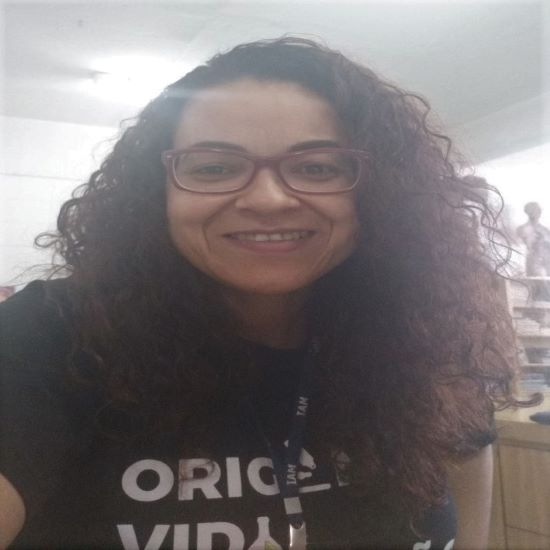
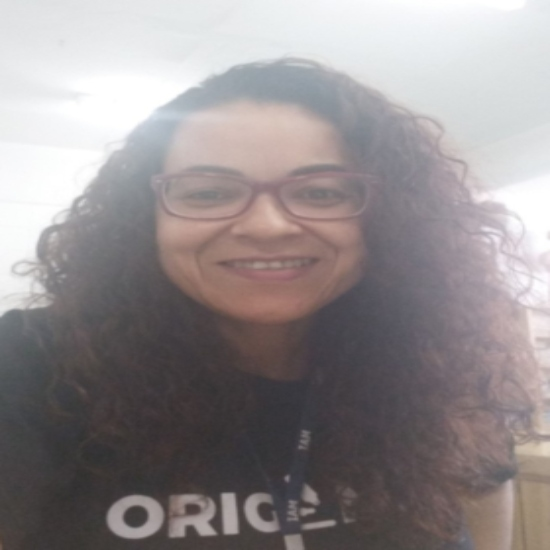
Substituíção imagem perfil e eliminada uma seção do portfólio

diff --git a/index.html b/index.html
@@ -382,24 +382,24 @@
                         </div>
                       </div>
                     </div>
-
+                    
                     <div class="col-sm-6 col-md-3">
                       <div class="service-block"> 
                         <div class="service-info">
                           <div class="service-image">
-                            <img src="images/service/creativity_icon.png" alt="Creativity" class="mCS_img_loaded">
+                          <img src="images/service/creativity_icon.png" alt="Creativity" class="mCS_img_loaded">
                           </div>
                           <h4>Sistema de gerenciamento</h4>
                           <p>Trabalhar com sistemas de gerenciamento e compartilhamento de informações.</p>
                         </div>
                       </div>
                     </div>
-
+                                      
                     <div class="col-sm-6 col-md-3">
                       <div class="service-block"> 
                         <div class="service-info">
                           <div class="service-image">
-                            <img src="images/service/advetising_icon.png" alt="Advetising" class="mCS_img_loaded">
+                          <img src="images/service/advetising_icon.png" alt="Advetising" class="mCS_img_loaded">
                           </div>
                           <h4>Curadoria digital</h4>
                           <p>Organização da informação, curadoria digital e desenvolvimento da plataforma na web.</p>
@@ -407,7 +407,7 @@
                       </div>
                     </div>
                   </div>
-                </section>
+                 </section>
                   <!-- End of My Services Subpage-->
                                     
                   <!-- Portfolio Subpage -->
@@ -427,13 +427,10 @@
                         <a class="filter btn btn-sm btn-link active" data-group="all">Tudo</a>
                       </li>
                       <li>
-                        <a class="filter btn btn-sm btn-link" data-group="media">Web Design</a>
+                        <a class="filter btn btn-sm btn-link" data-group="media">Programação</a>
                       </li>
                       <li>
                         <a class="filter btn btn-sm btn-link" data-group="illustration">SEO</a>
-                      </li>
-                      <li>
-                        <a class="filter btn btn-sm btn-link" data-group="video">Programação</a>
                       </li>
                     </ul>
                     <!-- End of Portfolio filter -->
@@ -456,7 +453,7 @@
 
                       <!-- Portfolio Item 2 -->
                       <figure class="item" data-groups='["all", "media"]'>
-                        <a href="images/portfolio/full/2.jpg" class="lightbox mfp-iframe" title="Ideogramas Cuneiformes" >
+                        <a href="images/portfolio/full/2.jpg" class="lightbox" title="Ideogramas Cuneiformes" >
                           <img src="images/portfolio/2.jpg" alt="">
                           <div>
                             <h5 class="name">Project Name</h5>
@@ -521,7 +518,7 @@
 
                       <!-- Portfolio Item 7 -->
                       <figure class="item" data-groups='["all", "media"]'>
-                        <a href="images/portfolio/full/7.jpg" class="lightbox mfp-iframe" title="Códex de Pergaminho">
+                        <a href="images/portfolio/full/7.jpg" class="lightbox" title="Códex de Pergaminho">
                           <img src="images/portfolio/7.jpg" alt="">
                           <div>
                             <h5 class="name">Project Name</h5>
@@ -560,7 +557,7 @@
 
                       <!-- Portfolio Item 10 -->
                       <figure class="item" data-groups='["all", "media"]'>
-                        <a href="images/portfolio/full/10.jpg" class="lightbox mfp-iframe" title="Memex (1945)" >
+                        <a href="images/portfolio/full/10.jpg" class="lightbox" title="Memex (1945)" >
                           <img src="images/portfolio/10.jpg" alt="">
                           <div>
                             <h5 class="name">Project Name</h5>
